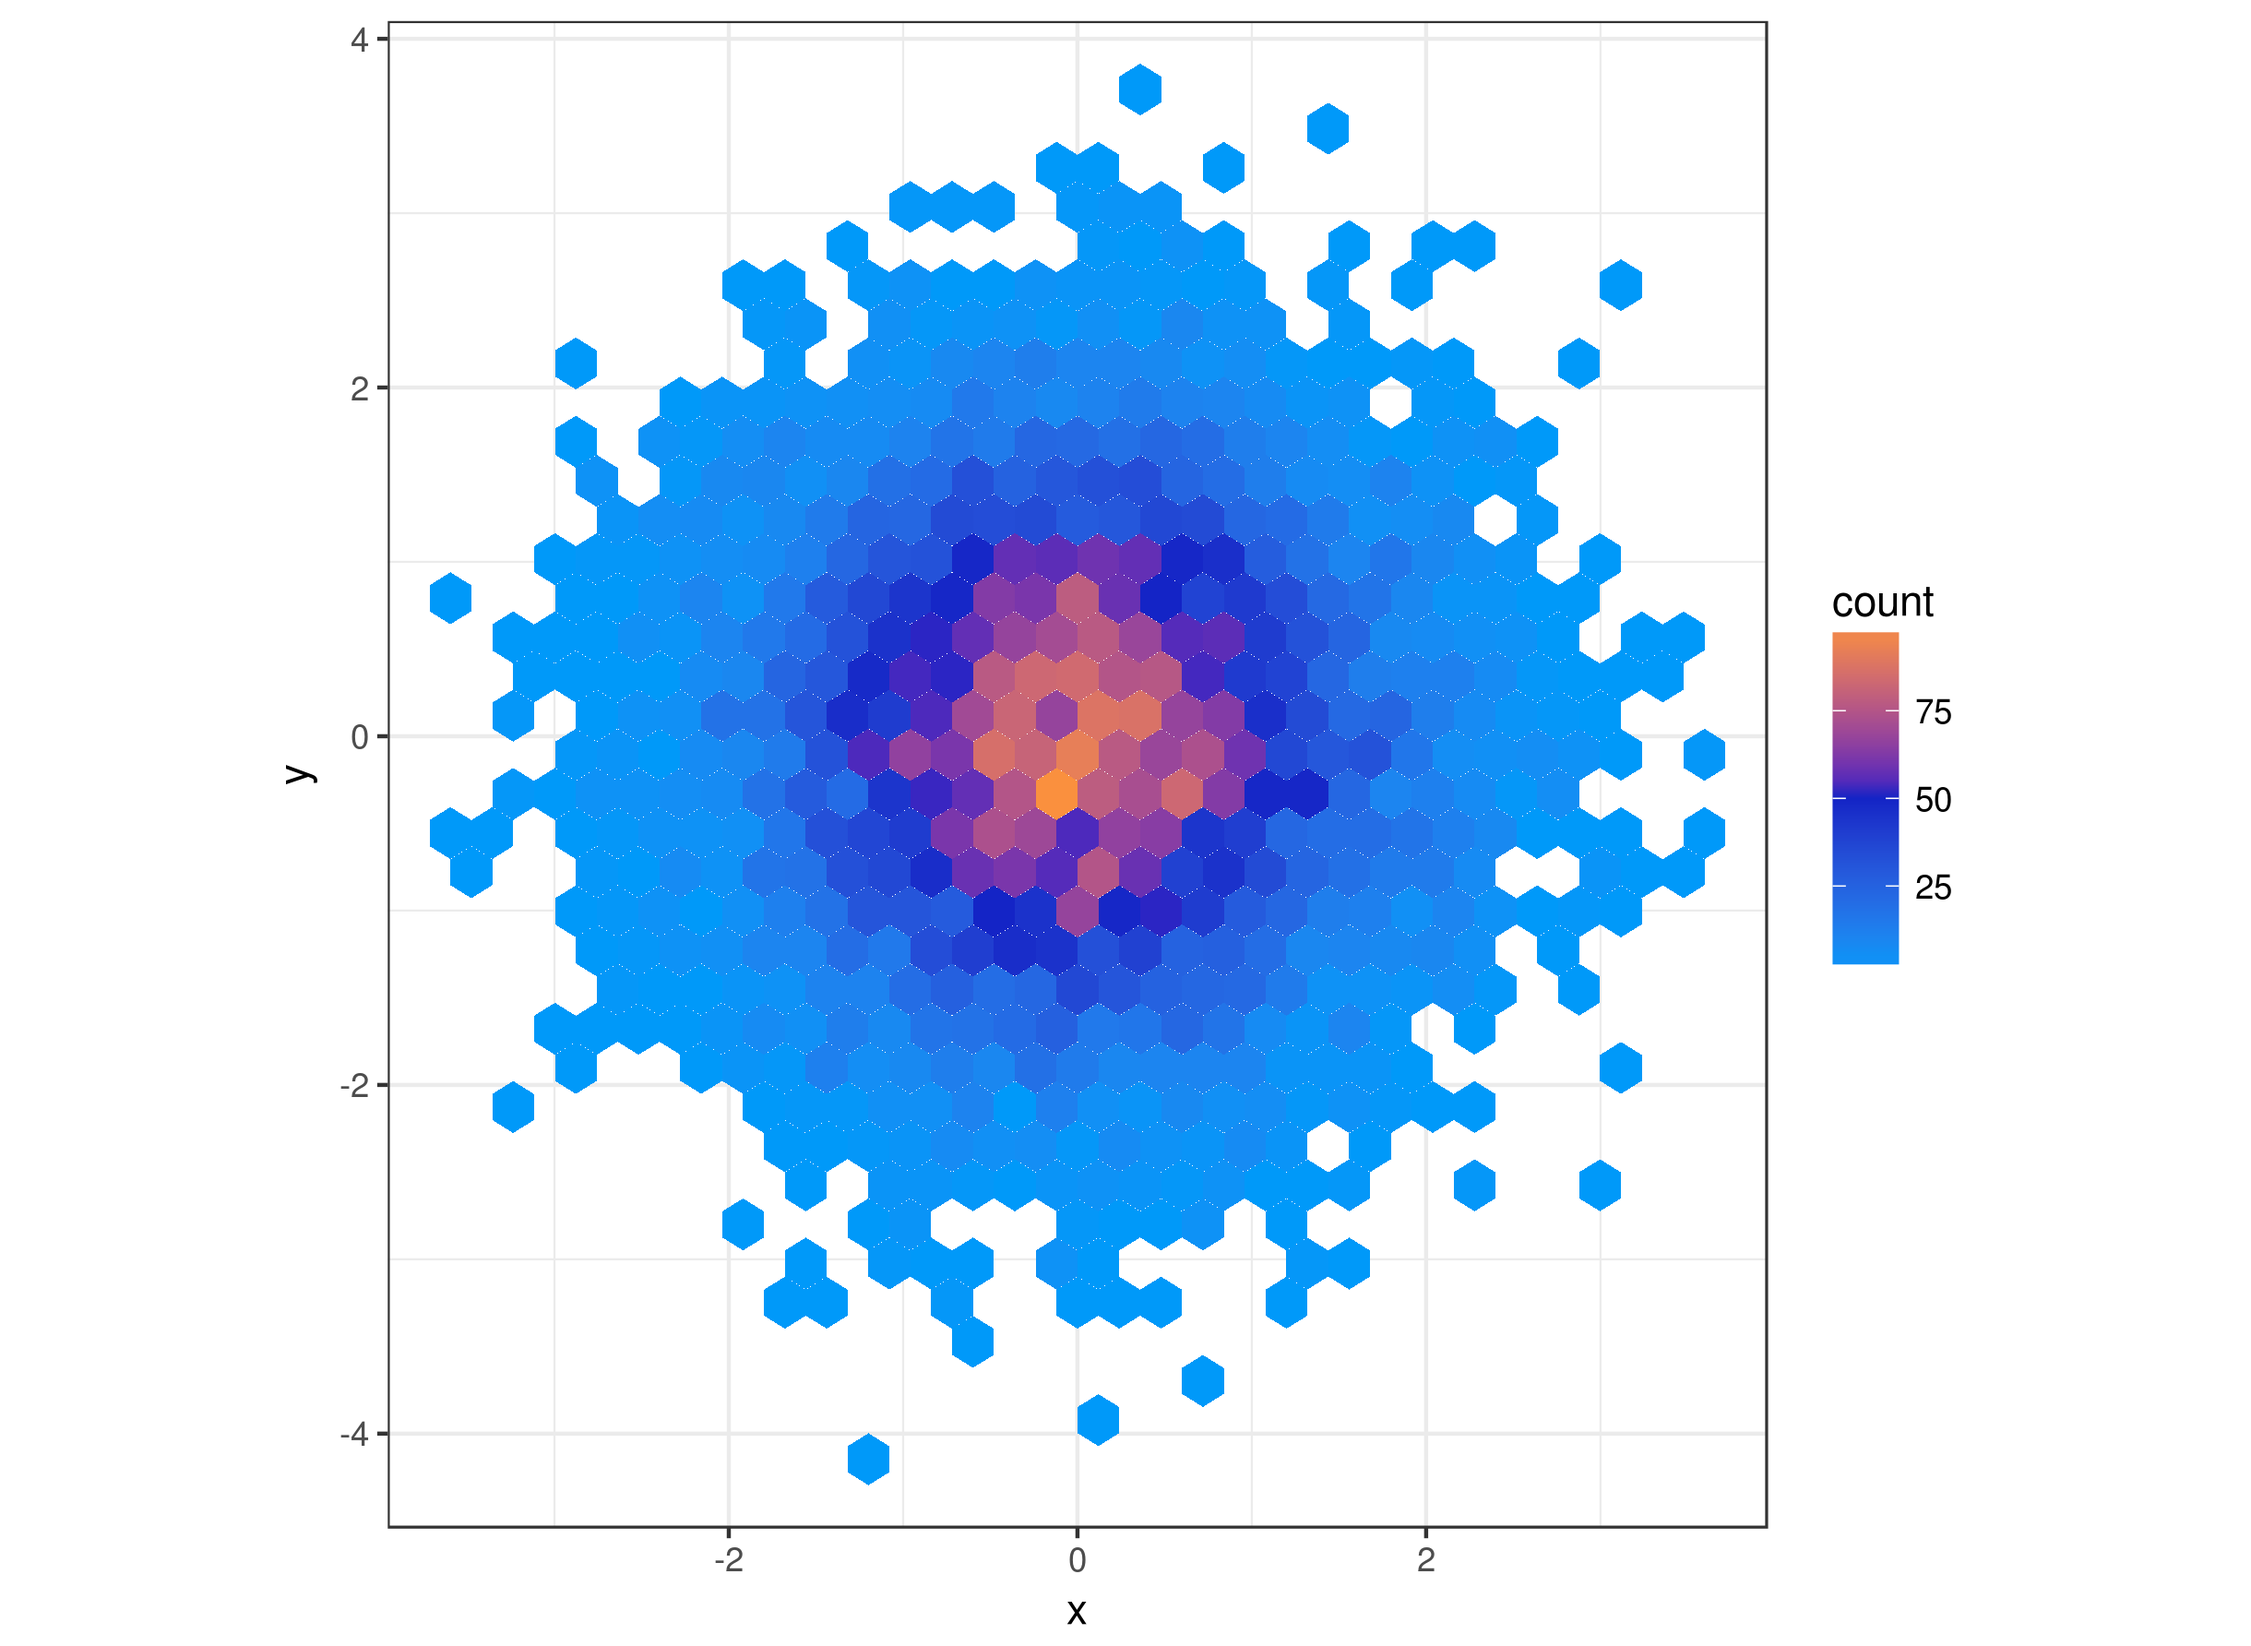
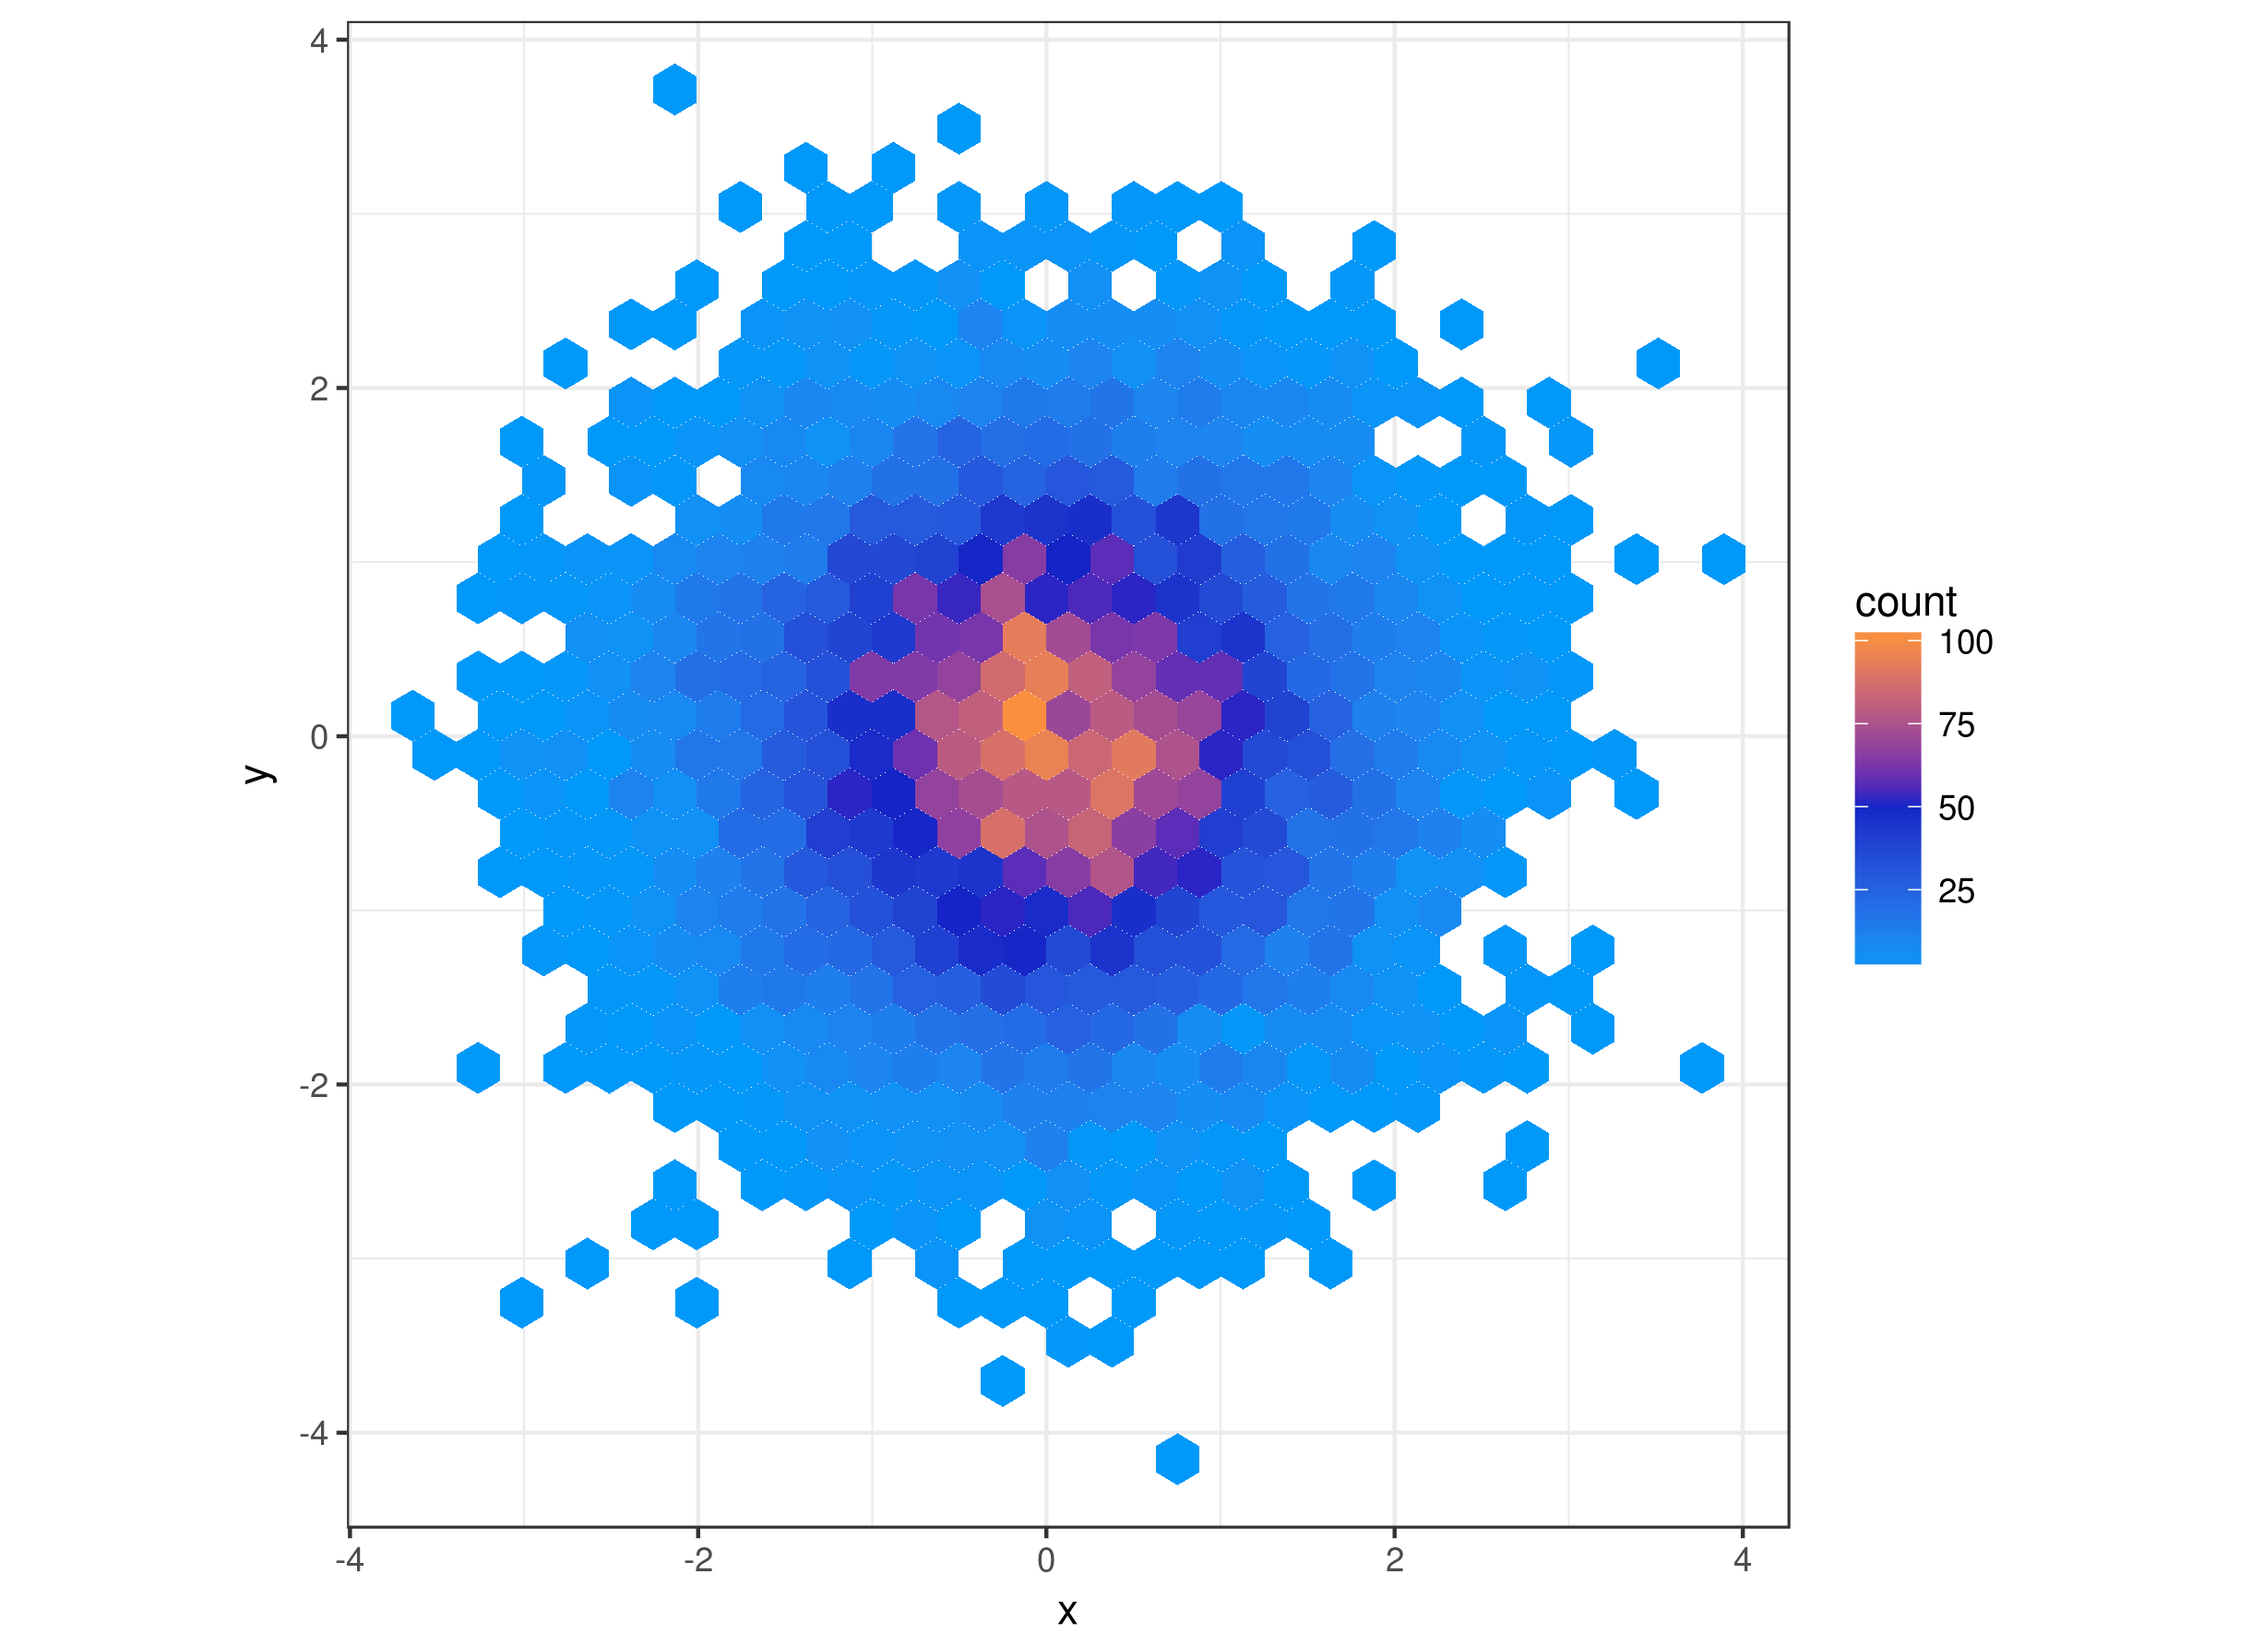
Update colors

diff --git a/README.md b/README.md
@@ -16,7 +16,7 @@ Charts theme - ggplot and plotly
 
 ### Continous
 
-Scale was created starting from <span style="color:#1424C6">"#1424C6"</span> and finish <span style="color:#FA903E">"#FA903E"</span> based on [kuler](https://color.adobe.com/create/color-wheel/?base=2&rule=Compound&selected=2&name=My%20Color%20Theme&mode=rgb&rgbvalues=0.07764705882352939,0.139242791599822,0.776470588235294,0.23058823529411765,0.2610750121227878,0.5764705882352941,0,0.6,0.9764705882352941,0.9794117647058823,0.5660503410702158,0.24485294117647058,0.776470588235294,0.2813068745571549,0.07764705882352939&swatchOrder=0,1,2,3,4) of compound colors with the center on Appsilon blue <span style="color:#0099F9">"#0099F9"</span>.
+Scale was created starting from <span style="color:#FA903E">"#FA903E"</span> mid <span style="color:#1424C6">"#1424C6"</span> and finish <span style="color:#0099F9">"#0099F9"</span> based on [kuler](https://color.adobe.com/create/color-wheel/?base=2&rule=Compound&selected=2&name=My%20Color%20Theme&mode=rgb&rgbvalues=0.07764705882352939,0.139242791599822,0.776470588235294,0.23058823529411765,0.2610750121227878,0.5764705882352941,0,0.6,0.9764705882352941,0.9794117647058823,0.5660503410702158,0.24485294117647058,0.776470588235294,0.2813068745571549,0.07764705882352939&swatchOrder=0,1,2,3,4) of compound colors with the center on Appsilon blue <span style="color:#0099F9">"#0099F9"</span>.
 
 #### Plot examples
 
